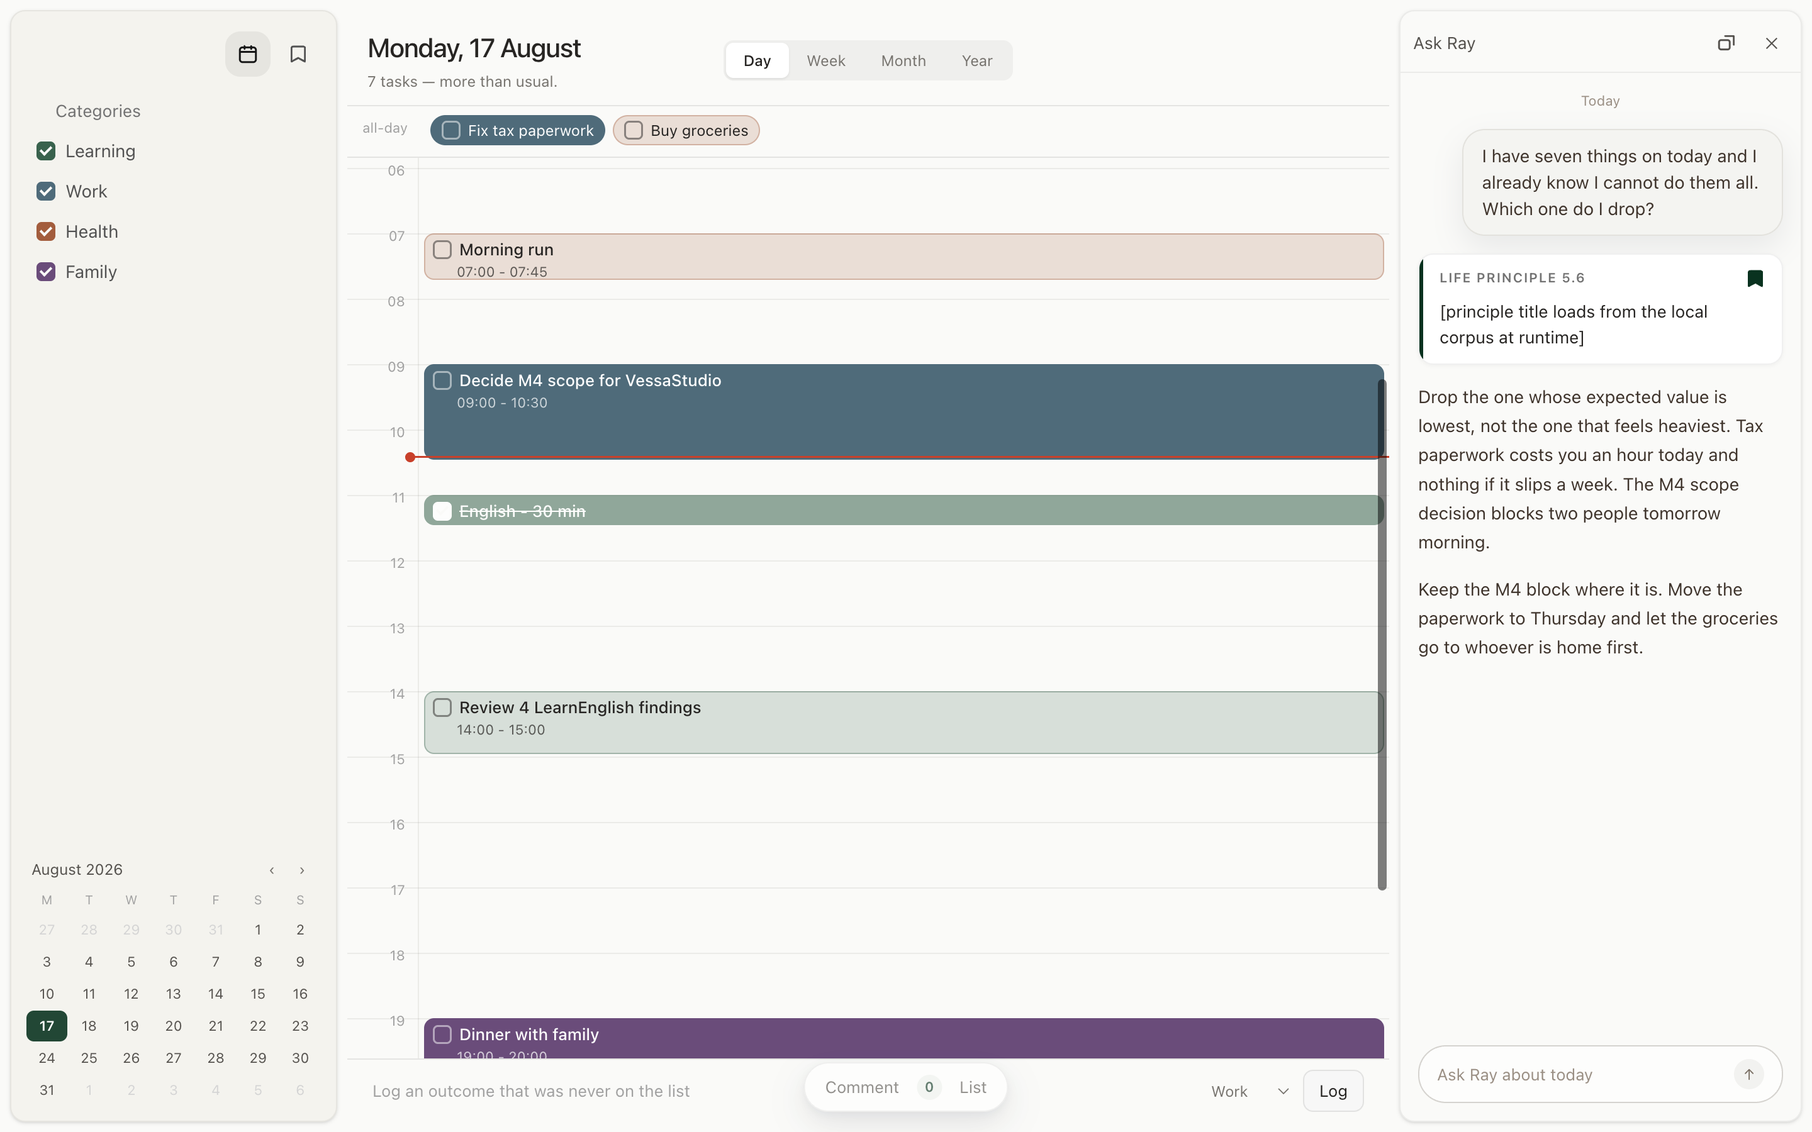
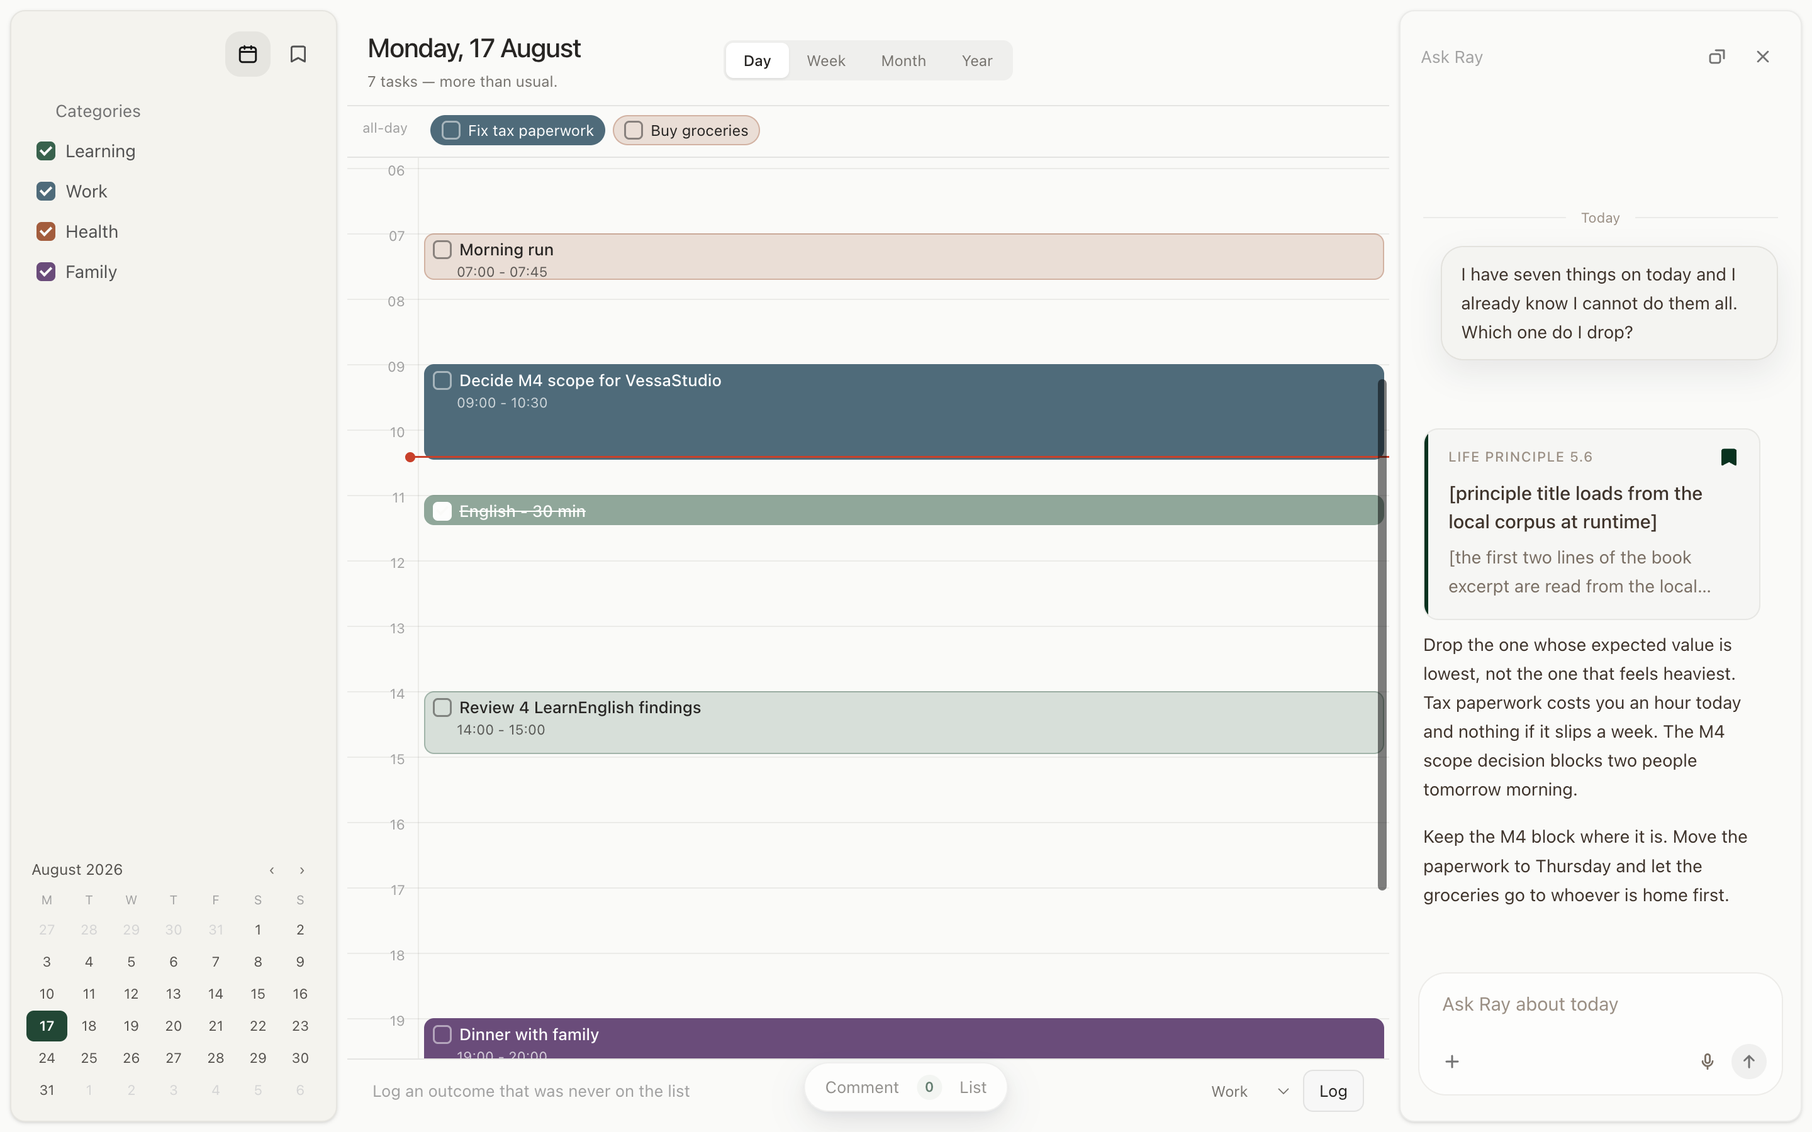
docs(design): prototype A — Ask Ray pane rebuilt on Eden's measured side-peek chat

diff --git a/docs/design/proto-day-A.html b/docs/design/proto-day-A.html
@@ -230,19 +230,56 @@ button{cursor:pointer;background:none;border:none}
 /* sidebar mode: the chat takes over column 3 - same slot, full height */
 .col3.raycol .c3body{display:none}
 .col3.raycol{padding:0}
-.raycol .rayhead{border-bottom:1px solid var(--panel-border);padding:12px 10px 10px}
-.raycol .raybody{padding:12px 14px 14px}
-.rayhead{display:flex;align-items:center;gap:8px;padding:12px 12px 6px}
-.rayhead .ttl{font-size:13.5px;color:var(--text-2)}
-.raybody{flex:1;overflow:auto;padding:2px 14px 14px;display:flex;flex-direction:column}
-.chat{display:flex;flex-direction:column;flex:1;gap:14px}
-.cc-day{text-align:center;font-size:11px;color:#9a8f84;margin:2px 0 0}
-.cc-user{margin-left:auto;width:fit-content;max-width:88%;border-radius:18px;background:rgba(70,60,45,.03);
-  border:1px solid rgba(70,60,45,.10);padding:10px 15px;font-size:14px;color:#3f342c;
-  box-shadow:0 10px 24px rgba(15,23,42,.08)}
+/* ---------------------------------------------------------------------------
+   Ask Ray IS Eden's chat pane. Every number below is measured, from
+   VessaStudio/docs/design/eden-dom: board-chat-pane.json (pane + header),
+   chat-message.json (message, bubble, actions, composer) and chat-cc.css.
+   Our pane is narrow, like Eden's side peek, so the `.ai-sidepeek-chat`
+   overrides in chat-cc.css are the ones that apply (bubble r=18 / 10px 15px,
+   body text 14/1.65, msg-pad 14px 18px).
+   --------------------------------------------------------------------------- */
+/* header: pane [859,9,572,62] - h62, px-4 pt-5 pb-2.5; title 13.5/20.25 #a3a3a3;
+   right cluster gap-0.5 of 28px circles with 16px glyphs */
+.rayhead{display:flex;align-items:center;gap:8px;flex:0 0 auto;height:62px;padding:20px 16px 10px}
+.rayhead .ttl{font-size:13.5px;line-height:20.25px;color:#a3a3a3}  /* measured, not our n400 */
+.ccbtn{width:28px;height:28px;flex:0 0 28px;border-radius:50%;display:inline-flex;align-items:center;
+  justify-content:center;color:var(--n500);transition:background-color .15s,color .15s}
+.ccbtn:hover{background:rgba(0,0,0,.05);color:var(--n700)}
+.ccbtn svg{width:16px;height:16px}
+/* thread: .cc__scroll + .cc__scroll-content (tail-aligned, pb-8) */
+.raybody{flex:1 1 auto;min-height:0;overflow-y:auto;overscroll-behavior:contain;display:flex;flex-direction:column}
+.chat{display:flex;flex-direction:column;flex:1 0 auto;justify-content:flex-end;min-height:100%;padding-bottom:8px}
+/* .cc__msg-pad, side-peek value: 14px 18px - that padding IS the rhythm (28px between turns) */
+.ccpad{padding:14px 18px}
+/* .cc__day-divider: 11px muted, gap-12, hairlines both sides */
+.ccday{display:flex;align-items:center;gap:12px;padding:10px 18px 0;font-size:11px;color:#9a8f84}
+.ccday::before,.ccday::after{content:"";flex:1 1 auto;height:1px;background:rgba(70,60,45,.08)}
+.ccday span{flex:0 0 auto}
+/* .cc-msg: user = fit-content pushed right, assistant = full width left */
+.msg{position:relative;display:flex;flex-direction:column;min-width:0;max-width:95%}
+.msg.u{width:fit-content;margin-left:auto}
+.msg.a{margin-right:auto}
+.msg .time{position:absolute;top:-15px;left:0;font-size:11px;line-height:16.5px;color:#9a8f84;
+  opacity:0;pointer-events:none;white-space:nowrap;transition:opacity .14s}
+.msg.u .time{left:auto;right:0}
+.msg:hover .time{opacity:1}
+.msg .parts{display:flex;flex-direction:column;gap:8px;min-width:0}
+.msg.u .parts{background:rgba(70,60,45,.03);border:1px solid rgba(70,60,45,.10);border-radius:18px;
+  padding:10px 15px;box-shadow:0 10px 24px rgba(15,23,42,.08),inset 0 1px 0 rgba(255,255,255,.05)}
+/* hover actions: 24px r=6 buttons, gap-2, margin 4px -6px 0, opacity 0 -> 1 on the message */
+.msg .acts{display:flex;align-items:center;gap:2px;margin:4px -6px 0;opacity:0;transition:opacity .15s}
+.msg.u .acts{justify-content:flex-end;margin-top:2px}
+.msg:hover .acts{opacity:1}
+.actbtn{width:24px;height:24px;border-radius:6px;display:inline-flex;align-items:center;justify-content:center;
+  border:1px solid transparent;color:rgba(154,143,132,.75);
+  transition:background-color .15s,color .15s,border-color .15s}
+.actbtn:hover{background:rgba(70,60,45,.03);border-color:rgba(70,60,45,.08);color:#9a8f84}
+.actbtn:active{color:#7a6f64;transform:scale(.92)}
+.actbtn svg{width:14px;height:14px}
+/* .cc-md, side-peek: 0.875rem / 1.65, warm near-black; block margin .9rem */
 .cc-md{font-size:14px;line-height:1.65;color:#3f342c}
-.cc-md p{margin-bottom:.9rem}
-.cc-md p:last-child{margin-bottom:0}
+.cc-md p{margin:0 0 .9rem}
+.cc-md > :last-child{margin-bottom:0}
  /* the principle card: a left stroke inside the radius, the corpus number as an uppercase
    label, the title, and the favourite toggle. Clicking it opens the excerpt in column 3. */
 .pcard{position:relative;overflow:hidden;background:var(--card);border:1px solid var(--panel-border);
@@ -286,11 +323,37 @@ button{cursor:pointer;background:none;border:none}
   border-radius:999px;font-size:12px;color:var(--n700);background:rgba(255,255,255,.8);
   border:1px solid rgba(0,0,0,.07);transition:background-color .15s,color .15s,border-color .15s}
 .books:hover{background:#fff;border-color:rgba(0,0,0,.12);color:var(--n900)}
-.cc-composer{margin-top:auto;border-radius:22px;background:rgba(255,255,255,.6);
-  border:1px solid rgba(70,60,45,.22);padding:10px 14px;font-size:13px;color:#9a8f84;
-  display:flex;align-items:center;gap:8px}
-.cc-composer .snd{margin-left:auto;width:24px;height:24px;border-radius:50%;background:rgba(70,60,45,.06);
-  display:flex;align-items:center;justify-content:center;color:#7a6f64;font-size:12px}
+/* the principle card inside an assistant turn: our left stroke and favourite toggle, but
+   on Eden's in-message card tokens (.cc-format-pick: r=12, bg rgba(70,60,45,.019),
+   border rgba(70,60,45,.08), question 15/500) */
+.pcard.cc{background:rgba(70,60,45,.019);border-color:rgba(70,60,45,.08);border-radius:12px;
+  padding:14px 16px 14px 19px;box-shadow:none}
+.pcard.cc:hover{background:rgba(70,60,45,.03);border-color:rgba(70,60,45,.16);box-shadow:none}
+.pcard.cc .lbl{font-size:11px;font-weight:500;letter-spacing:.06em;color:#9a8f84}
+.pcard.cc .ttl{font-size:15px;line-height:22.5px;font-weight:500;color:#3f342c;margin-top:6px}
+.pcard.cc .exq{font-size:14px;line-height:1.65;color:#7a6f64;margin-top:6px;
+  display:-webkit-box;-webkit-line-clamp:2;-webkit-box-orient:vertical;overflow:hidden}
+.pcard.cc .fav{color:#9a8f84}
+.pcard.cc .fav:hover{background:rgba(70,60,45,.06);color:#7a6f64}
+.pcard.cc .fav.on{color:var(--accent)}
+/* composer: .cc__composer width calc(100% - 28px), margin 0 auto 20px, gap-4; pill r=22,
+   white/60, border rgba(70,60,45,.09) -> .22 on focus; row grid 14px 12px 12px */
+.ccform{flex:0 0 auto;width:calc(100% - 28px);margin:0 auto 20px;display:flex;flex-direction:column;gap:4px}
+.ccpill{border:1px solid rgba(70,60,45,.09);background:rgba(255,255,255,.6);border-radius:22px;
+  display:flex;flex-direction:column;cursor:text;transition:border-color .2s}
+.ccpill:hover,.ccpill:focus-within{border-color:rgba(70,60,45,.22)}
+.ccrow{display:grid;grid-template-columns:auto minmax(0,1fr) auto;
+  grid-template-areas:"text text text" "left . right";align-items:center;gap:6px 8px;padding:14px 12px 12px}
+.ccrow .txt{grid-area:text;min-height:36px;padding:0 6px;display:flex;align-items:flex-start;
+  font-size:15px;line-height:1.35;color:#9a8f84}
+.ccrow .l{grid-area:left;display:flex;align-items:center;gap:8px}
+.ccrow .r{grid-area:right;display:flex;align-items:center;gap:8px}
+.ccmic{width:22px;height:22px;flex:0 0 22px;border-radius:50%;display:inline-flex;align-items:center;
+  justify-content:center;color:#7a6f64}
+.ccmic svg{width:16px;height:16px}
+.ccsend{width:28px;height:28px;flex:0 0 28px;border-radius:50%;background:rgba(0,0,0,.05);color:var(--n500);
+  display:inline-flex;align-items:center;justify-content:center}
+.ccsend svg{width:16px;height:16px}
 
 /* ============================ responsive ============================
    Under 1100px column 3 slides away behind a toggle; under 900px column 1 does too.
@@ -358,6 +421,18 @@ const ICON_PANEL_L = svg('<rect x="2" y="3" width="12" height="10" rx="2"/><path
 const ICON_PANEL_R = svg('<rect x="2" y="3" width="12" height="10" rx="2"/><path d="M10 3v10"/>');
 const ICON_BOOK = svg('<path d="M2.6 3.2h3.2c1 0 1.9.5 2.2 1.3c.3-.8 1.2-1.3 2.2-1.3h3.2v8.6h-3.2c-1 0-1.9.5-2.2 1.3c-.3-.8-1.2-1.3-2.2-1.3H2.6z"/><path d="M8 4.5v8.4"/>');
 const ICON_CHAT = svg('<path d="M2.6 4.4a1.7 1.7 0 0 1 1.7-1.7h7.4a1.7 1.7 0 0 1 1.7 1.7v4.4a1.7 1.7 0 0 1-1.7 1.7H6.4L3.6 13v-2.5a1.7 1.7 0 0 1-1-1.7z"/>');
+// chat-pane glyphs: Eden's message actions (Copy / Edit / Save as document / Regenerate)
+// and its composer trio (+ / dictation / send)
+const ICON_COPY = svg('<rect x="5.6" y="5.6" width="7.8" height="7.8" rx="1.6"/>' +
+  '<path d="M10.4 3.4a1.6 1.6 0 0 0-1.6-1.6H4.2a1.6 1.6 0 0 0-1.6 1.6v4.6a1.6 1.6 0 0 0 1.6 1.6"/>');
+const ICON_EDIT = svg('<path d="M11.2 2.6a1.5 1.5 0 0 1 2.2 2.1L6.6 11.5l-2.9.8.8-2.9z"/>');
+const ICON_SAVEDOC = svg('<path d="M3.4 2.6h6.2L13 6v7.4H3.4z"/><path d="M5.6 8.4h4.8M5.6 10.8h3.2"/>');
+const ICON_REGEN = svg('<path d="M13 8a5 5 0 1 1-1.6-3.6"/><path d="M13.2 2.4v2.9h-2.9"/>');
+const ICON_PLUS = svg('<path d="M8 3.4v9.2M3.4 8h9.2"/>');
+const ICON_CLOSE = svg('<path d="M4 4l8 8M12 4l-8 8"/>');
+const ICON_MIC = svg('<rect x="6.2" y="2.2" width="3.6" height="7" rx="1.8"/><path d="M4 7.6a4 4 0 0 0 8 0"/>' +
+  '<path d="M8 11.6v2.2"/>');
+const ICON_SEND = svg('<path d="M8 12.8V3.6M4.2 7.2 8 3.4l3.8 3.8"/>');
 // only ids live in this file - every title and excerpt is read from the local corpus at runtime
 const PRINCIPLES = ['life:1.7', 'life:5.3', 'life:5.6', 'work:3.3', 'work:9.2'];
 const CATS = [
@@ -810,18 +885,15 @@ function renderCol2(){
 const raySidebar = () => S.ray && S.rayMode === 'sidebar';
 function rayHead(other, label){
   return '<div class="rayhead"><span class="ttl">Ask Ray</span><span style="flex:1"></span>' +
-    '<button class="iconbtn" title="' + label + '" onclick="A.rayDock(\'' + other + '\')">' +
+    '<button class="ccbtn" title="' + label + '" onclick="A.rayDock(\'' + other + '\')">' +
       (other === 'sidebar' ? ICON_DOCK : ICON_FLOAT) + '</button>' +
-    '<button class="iconbtn" title="Close" onclick="A.toggleRay()">&#10005;</button></div>';
+    '<button class="ccbtn" title="Close" onclick="A.toggleRay()">' + ICON_CLOSE + '</button></div>';
 }
 function rayHtml(){
   if (raySidebar()) return '';                 // the chat lives in column 3 instead
   if (!S.ray)
     return '<button class="rayfab" title="Ask Ray" onclick="A.toggleRay()">' + ICON_CHAT + '</button>';
-  return '<div class="raypanel">' +
-      rayHead('sidebar', 'Open as sidebar') +
-      '<div class="raybody">' + chatPane() + '</div>' +
-    '</div>';
+  return '<div class="raypanel">' + rayHead('sidebar', 'Open as sidebar') + chatPane() + '</div>';
 }
 
 // ============================ column 3 ============================
@@ -913,10 +985,13 @@ const favBtn = id => '<button class="fav' + (isFav(id) ? ' on' : '') + '"' +
   (isFav(id) ? ICON_MARK_ON : ICON_MARK) + '</button>';
 // the card carries label + title + favourite only; the excerpt and the book live in column 3
 function principleCard(id, where){
-  return '<div class="pcard" data-pid="' + id + '" onclick="A.openExcerpt(\'' + id +
-      '\',\'' + (where || 'pod') + '\')">' +
+  const inChat = where === 'ray';
+  return '<div class="pcard' + (inChat ? ' cc' : '') + '" data-pid="' + id +
+      '" onclick="A.openExcerpt(\'' + id + '\',\'' + (where || 'pod') + '\')">' +
       '<div class="top"><span class="lbl">' + esc(PLABEL(id)) + '</span>' + favBtn(id) + '</div>' +
       '<div class="ttl">[principle title loads from the local corpus at runtime]</div>' +
+      (inChat ? '<div class="exq">[the first two lines of the book excerpt are read from the ' +
+        'local corpus at runtime - the translation is copyrighted and is never stored here]</div>' : '') +
     '</div>';
 }
 function principleRow(id){
@@ -941,19 +1016,45 @@ function excerptBody(id){
       '</div>' +
     '</div>';
 }
-function chatPane(){
+// one turn: the timestamp and the action row appear on hover, exactly as Eden does it
+const actBtn = (icon, label) => '<button class="actbtn" title="' + label + '">' + icon + '</button>';
+function ccMsg(kind, time, parts, acts){
+  return '<div class="ccpad"><div class="msg ' + kind + '">' +
+      '<time class="time">' + time + '</time>' +
+      '<div class="parts">' + parts + '</div>' +
+      '<div class="acts">' + acts + '</div>' +
+    '</div></div>';
+}
+function chatThread(){
   return '<div class="chat">' +
-    '<div class="cc-day">Today</div>' +
-    '<div class="cc-user">I have seven things on today and I already know I cannot do them all. ' +
-      'Which one do I drop?</div>' +
-    principleCard('life:5.6', 'ray') +
-    '<div class="cc-md"><p>Drop the one whose expected value is lowest, not the one that feels heaviest. ' +
-      'Tax paperwork costs you an hour today and nothing if it slips a week. The M4 scope decision ' +
-      'blocks two people tomorrow morning.</p>' +
-      '<p>Keep the M4 block where it is. Move the paperwork to Thursday and let the groceries go ' +
-      'to whoever is home first.</p></div>' +
-    '<div class="cc-composer">Ask Ray about today<span class="snd">&#8593;</span></div>' +
+    '<div class="ccday"><span>Today</span></div>' +
+    ccMsg('u', '10:24 AM',
+      '<div class="cc-md"><p>I have seven things on today and I already know I cannot do them all. ' +
+        'Which one do I drop?</p></div>',
+      actBtn(ICON_COPY, 'Copy') + actBtn(ICON_EDIT, 'Edit message')) +
+    ccMsg('a', '10:24 AM',
+      principleCard('life:5.6', 'ray') +
+      '<div class="cc-md"><p>Drop the one whose expected value is lowest, not the one that feels ' +
+        'heaviest. Tax paperwork costs you an hour today and nothing if it slips a week. The M4 ' +
+        'scope decision blocks two people tomorrow morning.</p>' +
+        '<p>Keep the M4 block where it is. Move the paperwork to Thursday and let the groceries go ' +
+        'to whoever is home first.</p></div>',
+      actBtn(ICON_COPY, 'Copy') + actBtn(ICON_SAVEDOC, 'Save as document') +
+      actBtn(ICON_REGEN, 'Regenerate response')) +
     '</div>';
+}
+function ccComposer(){
+  return '<form class="ccform" onsubmit="return false">' +
+    '<div class="ccpill"><div class="ccrow">' +
+      '<div class="txt">Ask Ray about today</div>' +
+      '<div class="l"><button class="ccbtn" title="Add context">' + ICON_PLUS + '</button></div>' +
+      '<div class="r"><span class="ccmic" title="Dictate">' + ICON_MIC + '</span>' +
+        '<button class="ccsend" title="Send">' + ICON_SEND + '</button></div>' +
+    '</div></div></form>';
+}
+// the thread scrolls, the composer does not - they are siblings, as in Eden's pane
+function chatPane(){
+  return '<div class="raybody">' + chatThread() + '</div>' + ccComposer();
 }
 // no header any more: date navigation moved to the column-2 toolbar and Ask Ray
 // floats over the grid, so column 3 is only its content
@@ -965,7 +1066,7 @@ function renderCol3(){
     '<button class="navbtn" onclick="A.today()">Today</button>' +
     '<button class="navbtn" onclick="A.shiftDay(1)" title="Next day">&#8250;</button></div>';
   el.innerHTML = raySidebar()
-    ? rayHead('float', 'Float') + '<div class="raybody">' + chatPane() + '</div>'
+    ? rayHead('float', 'Float') + chatPane()
     : dateNav + '<div class="c3body">' + (S.pane === 'detail' ? detailPane() : dayPane()) + '</div>';
 }
 
@@ -1097,6 +1198,9 @@ function render(){
     const start = folded() ? 0 : Math.max(0, yOf(6 * 60) - 8);
     nw.scrollTop = firstPaint ? start : (keep === null ? 0 : keep);
   }
+  // the chat opens on its newest turn, like every chat pane does
+  const thread = document.querySelector('.raybody');
+  if (thread) thread.scrollTop = thread.scrollHeight;
   firstPaint = false;
 }
 // a panel left open as an overlay must not stay "open" once it is docked again

diff --git a/docs/design/proto-day-README.md b/docs/design/proto-day-README.md
@@ -7,7 +7,8 @@ moved on through Danny's comment rounds and is the frozen reference (see "Decisi
 Open with `open docs/design/proto-day-A.html` (and `-B`); self-contained, no server.
 Screenshots (1440×900): `proto-day-A-v2.png` is A as it stands now, with Ask Ray floating;
 `proto-day-A-v2-chat-sidebar.png` is the same screen with Ask Ray docked into column 3;
-`proto-day-A-v2-chat.png` is a close-up of the chat panel and its principle card;
+`proto-day-A-v2-chat.png` is a close-up of the chat panel, its principle card and the
+hover actions on a turn;
 `proto-day-A-v2-principles.png` is the bookmark mode with the excerpt popover open;
 `proto-day-A-v2-cat-menu.png` is the category context menu; `proto-day-A-1280.png`,
 `-1100.png` and `-960.png` show the responsive shell; `proto-day-A.png` is the v1 it
@@ -51,7 +52,12 @@ and opens the same popover, flipped to the card's left where the window runs out
 chat is docked as a sidebar when something needs column 3, the chat floats itself out of
 the way rather than blocking the pane. Ask Ray is a bubble on the window's right margin (right/bottom 20px) instead
 of a header icon, and the chat it opens has two modes like Notion AI — floating panel, or
-docked as a sidebar in place of column 3. The header's dock icon switches between them
+docked as a sidebar in place of column 3. Inside, the pane is Eden's chat pane to the
+measurement (`eden-dom/board-chat-pane.json`, `chat-message.json`, `chat-cc.css`, side-peek
+variant): 62px header, hairline day divider, right-aligned user bubble, bare assistant prose,
+14×18px per message, hover timestamp and action row, and the rectangular composer pill. Our
+principle card rides inside the assistant turn, before the prose, on Eden's in-message card
+tokens with our left stroke, favourite toggle and a two-line excerpt. The header's dock icon switches between them
 (“Open as sidebar” / “Float”), the X closes, and the mode you last used is the one the
 bubble reopens for the rest of the session.
 
@@ -73,11 +79,10 @@ the frozen reference the Swift build is measured against.
 2. **Column 1** — an Eden floating panel (8px inset, 260px, `#f4f3ee`, r=12, 1px black/6%,
    `shadow-sm`). No app name and no title bar in it. A Calendar / Principles icon pair sits at the
    panel's top right as 36×36 r=12 Eden icon buttons (calendar, bookmark).
-3. **Categories are a filter**, like Apple Calendar's calendar list: each row is a colored tick
-   square + name, ticked by default; unticking hides that category's blocks, all-day chips and
-   dots from the day. Habit sub-rows were removed — a habit is just a task on the grid. Right-click
-   opens a native-style context menu: Rename…, Change color ▸ swatches, Show only <name>,
-   Delete Category.
+3. **Categories are a filter**, like Apple Calendar's calendar list: a colored tick square + name
+   per row, ticked by default; unticking hides that category's blocks, chips and dots. Habit
+   sub-rows were removed — a habit is just a task on the grid. Right-click gives Rename…,
+   Change color ▸ swatches, Show only <name>, Delete Category.
 4. **Principles mode** (the bookmark icon) is not an inbox or a backlog: the "Principle of the day"
    card on top, then the favourited principles grouped under "Life principles" / "Work principles" —
    one section-label style for all three, sentence case. Backlog appears only as "Suggested from
@@ -90,18 +95,20 @@ the frozen reference the Swift build is measured against.
    (spec #5 rev 2: column 3 carries the date navigation).
 7. **The dots column is static** — a plain ranked column of circles. Ranking is a mode you enter:
    "Order the day" turns them into draggable rows, "Close day" ends it.
-8. **Ask Ray is a floating bubble** on the window's right margin, not a header icon. The chat it
-   opens has two modes like Notion AI — a floating panel, or docked as a sidebar in place of
-   column 3 — the header's dock icon switches between them and the last mode is remembered. When
-   something needs column 3, a sidebar-docked chat floats itself out of the way.
+8. **Ask Ray is a floating bubble** on the window's right margin, not a header icon. The chat has
+   two modes like Notion AI — floating panel, or docked as a sidebar in place of column 3 — the
+   header's dock icon switches, the last mode is remembered, and a docked chat floats itself out
+   of the way when something needs column 3.
 9. **Warning copy is short** — one line under the date ("7 tasks — more than usual."), no
    paragraph, no banner.
 10. **The shell is fluid**, with breakpoints at 1199px (short date, subtitle hidden), 1099px
     (column 3 becomes a drawer) and 899px (column 1 too). No fixed-width wrapper anywhere.
 11. **Everything on the grid snaps to 15 minutes** — moving, resizing, creating by drag, and
     dropping an all-day item onto the grid.
-12. **The chat has one vertical rhythm** — 14px between every item (day divider, user bubble,
-    principle card, Ray's prose, paragraphs, composer), identical floating and docked.
+12. **The Ask Ray pane is Eden's chat pane**, rebuilt from the measured dumps rather than by
+    eye — h62 header, hairline day divider, right-aligned user bubble, bare assistant prose,
+    14×18px per message, hover timestamp and actions, rectangular composer pill; see the
+    paragraph above for the numbers. Identical floating and docked.
 
 **Working interactions:** untick a category to filter it off the day · right-click one
 to rename, recolor, isolate or delete it · dock or float the Ask Ray chat · drag a block
